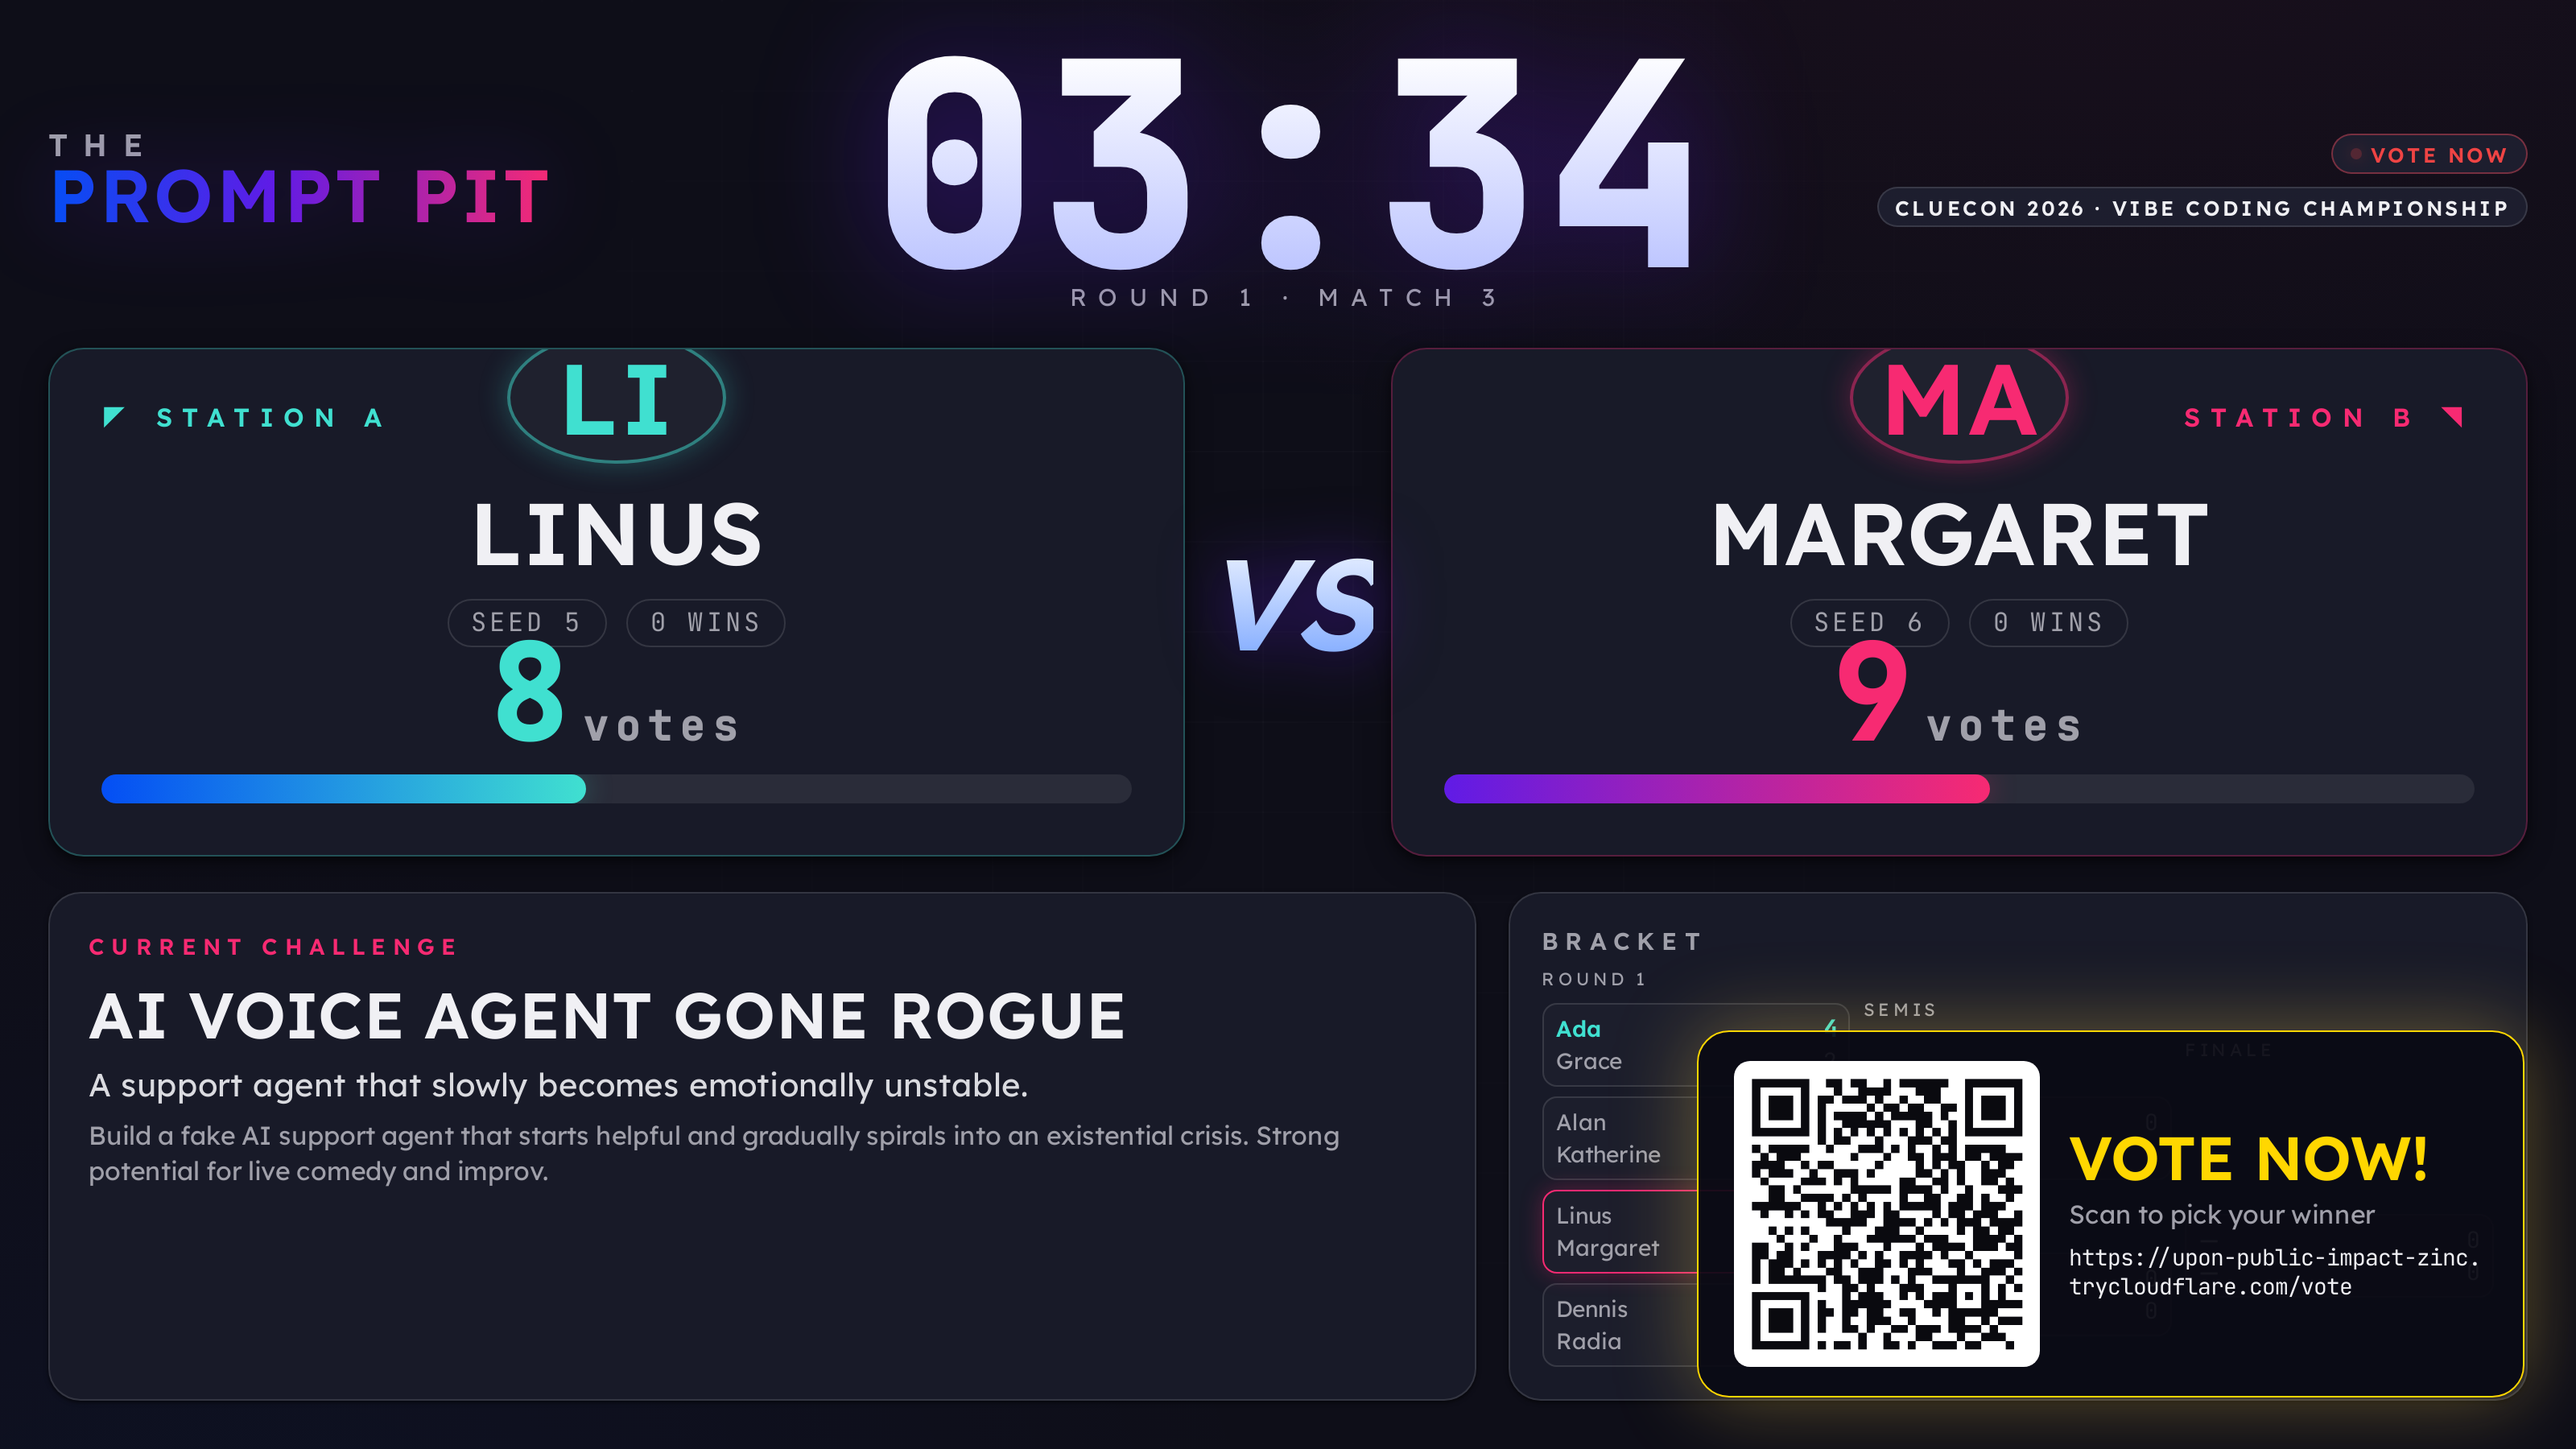
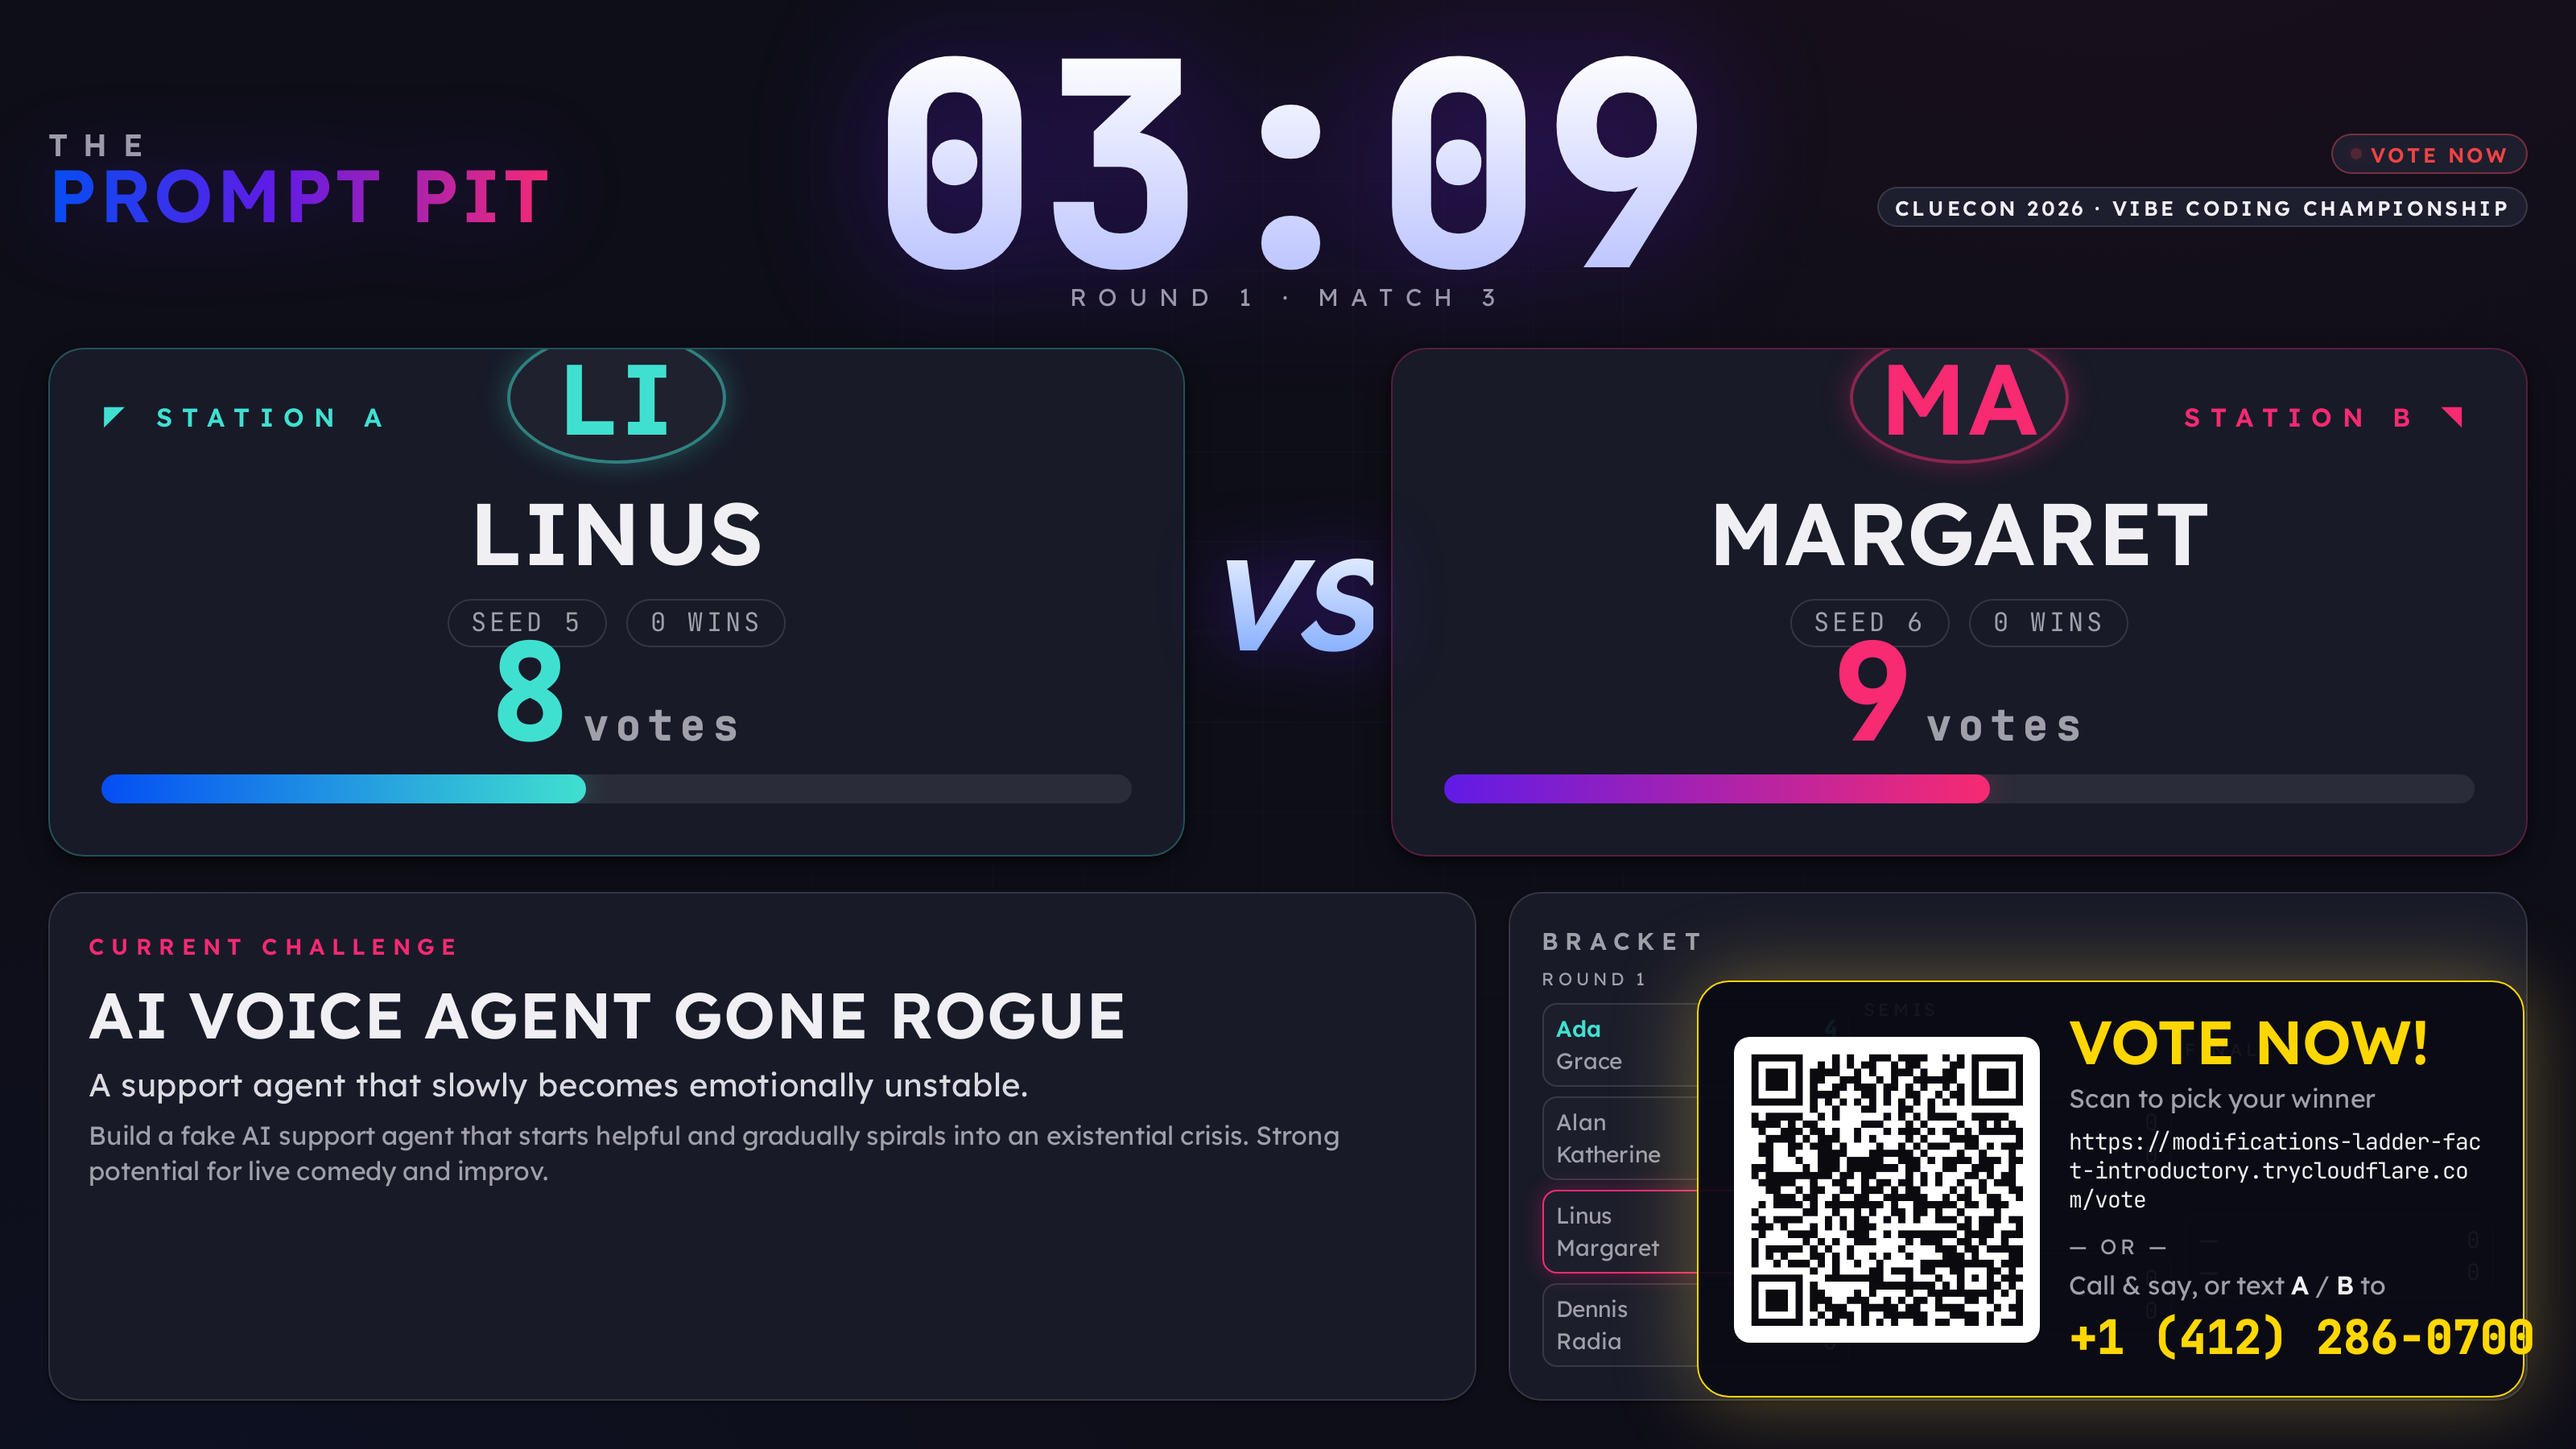
Stage: show vote phone number + SMS/call option on the QR card
Broadcast VOTE_NUMBER in public state and render it under the vote QR:
'Call & say, or text A / B to <number>'. Covers all three voting channels
in one place. Updated the Stage screenshot to match.

Changed region(s): [[0.6562, 0.6533, 1.0, 0.9644], [0.5312, 0.0311, 0.6562, 0.1867]]

diff --git a/public/stage.html b/public/stage.html
@@ -240,6 +240,11 @@
   .qr-float .call .big { font-size: clamp(22px,2.4vw,38px); font-weight:800; text-transform:uppercase; color: var(--gold); line-height:1; }
   .qr-float .call .sub { color: var(--muted); margin-top:6px; font-size: clamp(12px,1.1vw,16px); }
   .qr-float .call .url { font-family:var(--mono); font-size: clamp(11px,1vw,14px); color:var(--txt); margin-top:8px; word-break:break-all; }
+  .qr-float .call .phone { margin-top: 12px; }
+  .qr-float .call .phone .por { color: var(--muted); font-size: clamp(10px,0.9vw,13px); letter-spacing:0.18em; text-transform:uppercase; }
+  .qr-float .call .phone .plabel { margin-top: 6px; color: var(--muted); font-size: clamp(12px,1.05vw,16px); }
+  .qr-float .call .phone .plabel b { color: var(--txt); }
+  .qr-float .call .phone .pnum { margin-top: 4px; font-family: var(--mono); font-weight: 800; color: var(--gold); font-size: clamp(18px,1.9vw,28px); white-space: nowrap; }
 
   /* sabotage overlay */
   .overlay {
@@ -441,6 +446,11 @@
     <div class="big" id="qr-big">Vote Now!</div>
     <div class="sub" id="qr-sub">Scan to pick your winner</div>
     <div class="url" id="qr-url"></div>
+    <div class="phone" id="qr-phone">
+      <div class="por">— or —</div>
+      <div class="plabel">Call &amp; say, or text <b>A</b> / <b>B</b> to</div>
+      <div class="pnum" id="qr-phone-num"></div>
+    </div>
   </div>
 </div>
 

diff --git a/public/stage.js b/public/stage.js
@@ -161,6 +161,13 @@
     $('ch-brief').textContent = ch.brief;
   }
 
+  // Pretty-print a US/E.164 number, e.g. +14122860700 -> +1 (412) 286-0700.
+  function fmtPhone(n) {
+    var d = String(n || '').replace(/[^\d+]/g, '');
+    var m = d.match(/^\+?1?(\d{3})(\d{3})(\d{4})$/);
+    return m ? ('+1 (' + m[1] + ') ' + m[2] + '-' + m[3]) : (n || '');
+  }
+
   // Small corner float — VOTE only. Registration uses the full pre-show board.
   function renderQr(s) {
     var f = $('qr-float');
@@ -169,6 +176,14 @@
       $('qr-big').textContent = 'Vote Now!';
       $('qr-sub').textContent = 'Scan to pick your winner';
       $('qr-url').textContent = (s.publicUrl || '').replace(/\/+$/, '') + '/vote';
+      // Call + SMS option (only if a voting number is configured).
+      var ph = $('qr-phone');
+      if (s.voteNumber) {
+        $('qr-phone-num').textContent = fmtPhone(s.voteNumber);
+        ph.style.display = '';
+      } else {
+        ph.style.display = 'none';
+      }
       f.classList.add('show');
     } else {
       f.classList.remove('show');

diff --git a/server.js b/server.js
@@ -88,6 +88,8 @@ function restoreSnapshot() {
     // Refresh static catalog from code so challenge edits/deploys take effect.
     state.challenges = CHALLENGES;
     state.criteria = CRITERIA;
+    // Always reflect the current env's voting number (may change between runs).
+    state.voteNumber = process.env.VOTE_NUMBER || '';
     // Backfill fields added after older snapshots were written, and self-heal
     // any voteBreakdown left stale by the pre-fix reseed bug: if a side has no
     // votes, its channel breakdown must be zero too (Stage reads votes, Stats
@@ -303,6 +305,8 @@ function initialState() {
       history: [], // [{ text, at, matchId, matchLabel, a, b }] newest-first
     },
     publicUrl: process.env.PUBLIC_URL || '',
+    // Public voting phone number (call + SMS). Shown on the Stage vote card.
+    voteNumber: process.env.VOTE_NUMBER || '',
     // QR data URLs for each public destination (vote + register).
     qr: { vote: '', register: '' },
     // Which QR the Stage shows: 'vote' | 'register' | null.
